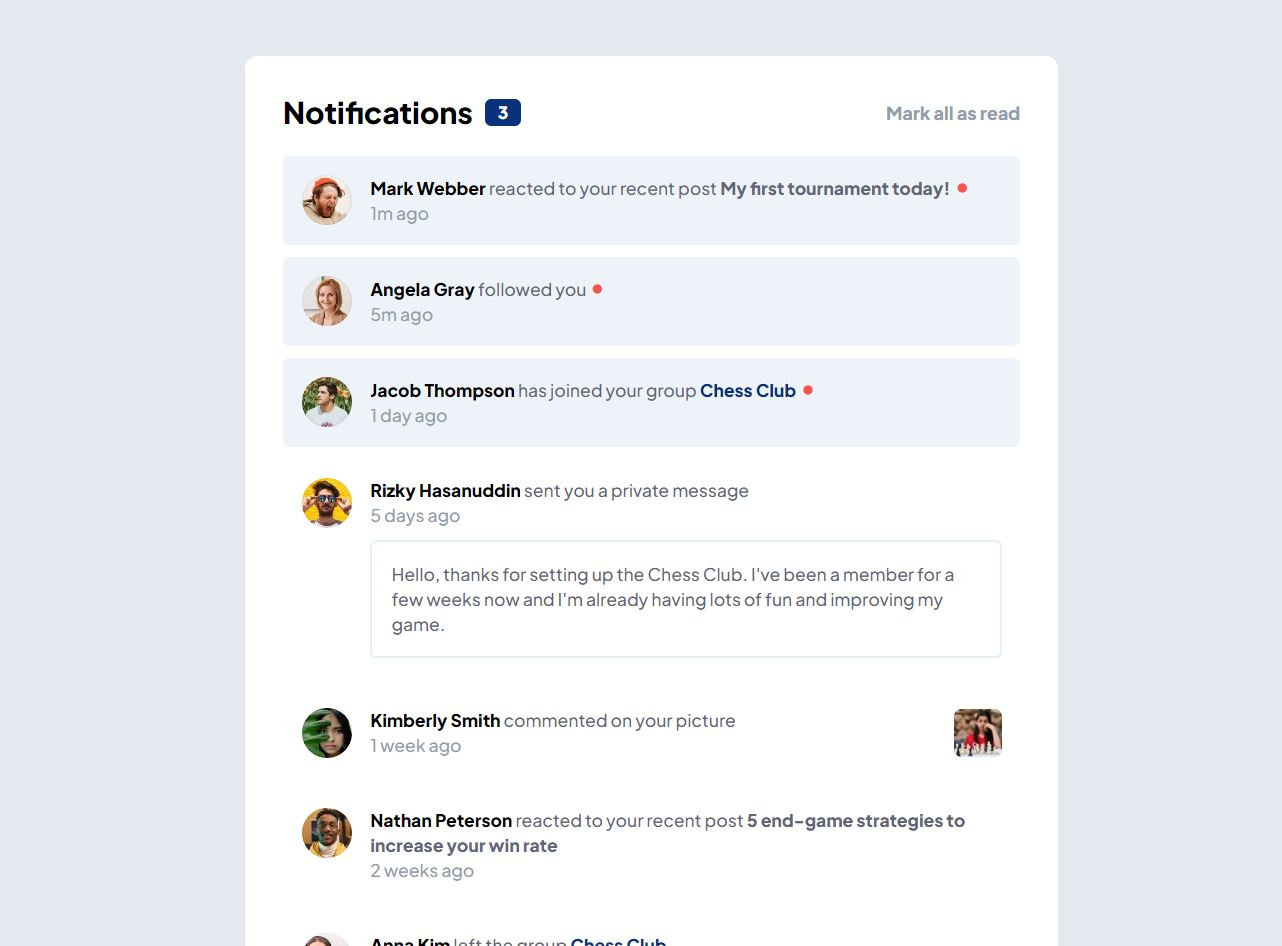
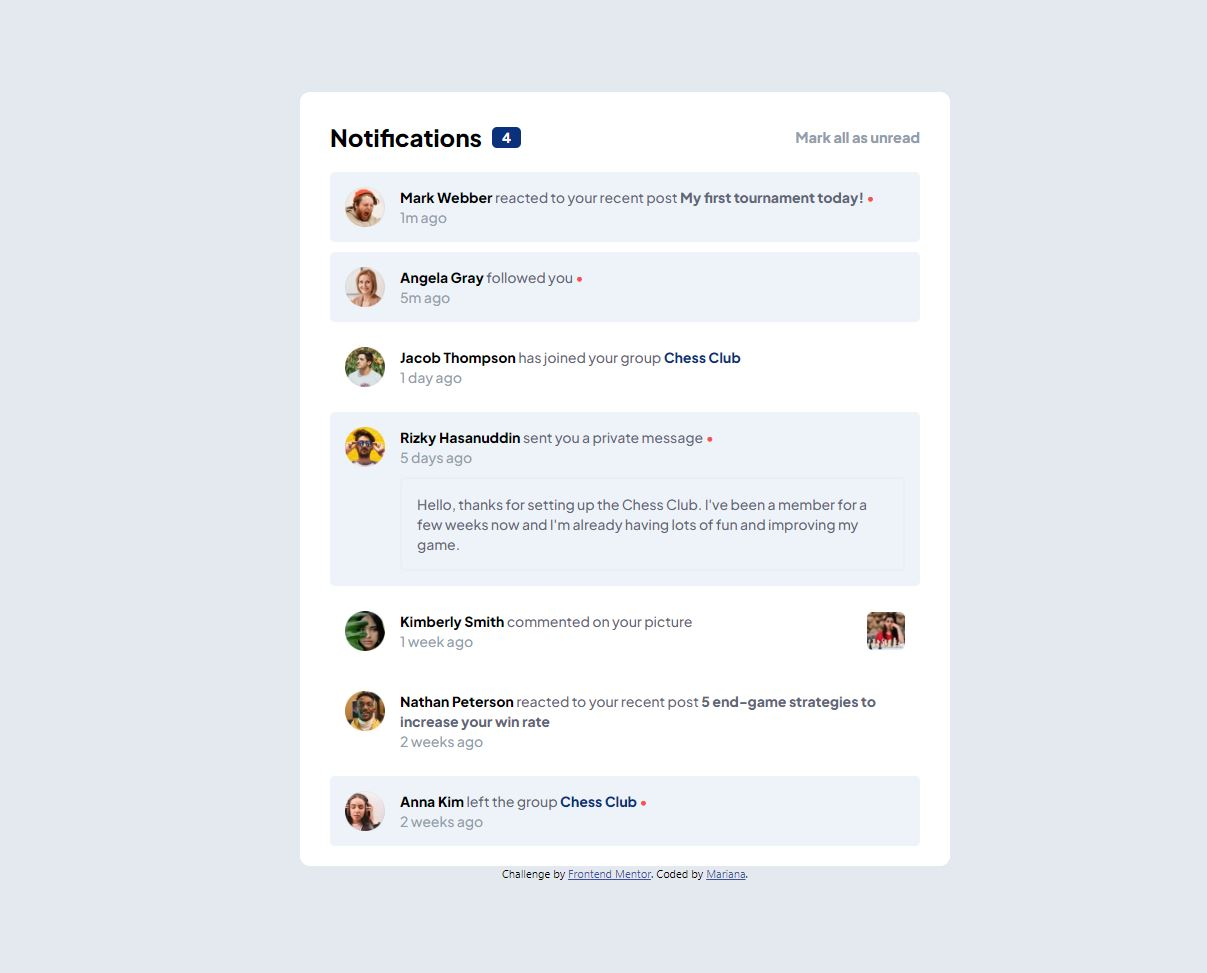
challenge completed

Changed region(s): [[0.1839, 0.0613, 0.8277, 1.0]]

diff --git a/src/App.js b/src/App.js
@@ -1,14 +1,56 @@
+import { useState } from 'react';
 import './App.css';
 import Header from './components/Header';
 import Card from './components/Card';
 
 function App() {
+
+    const [countUnreadMessages, setCountUnreadMessages] = useState(0);
+    const handleClickUnreadMessage = event => {
+        event.currentTarget.classList.toggle('isUnread');
+        if (event.currentTarget.classList.value.includes('isUnread')) {
+            setCountUnreadMessages(prevCountUnreadMessages => prevCountUnreadMessages + 1)            
+        } else {
+            setCountUnreadMessages(prevCountUnreadMessages => prevCountUnreadMessages - 1)
+        }
+    };
+
+    const allUnread = () => {
+        if (markAllUnreadMessages == "card-container isUnread") {
+            setCountUnreadMessages(prevCountUnreadMessages => prevCountUnreadMessages = 0);            
+        } else {
+            setCountUnreadMessages(prevCountUnreadMessages => prevCountUnreadMessages = 7);
+        }
+    }
+
+
+    const [markAllUnreadMessages, setMarkAllUnreadMessages] = useState("card-container");
+    const unreadAllMessages = () => {
+        setMarkAllUnreadMessages(prevmarkAllUnreadMessages => prevmarkAllUnreadMessages == "card-container" ? prevmarkAllUnreadMessages = "card-container isUnread" : "card-container");
+    }    
+
+    const [markAllUnread, setMarkAllUnread] = useState("Mark all as unread");
+    const handleClickMarkAll = () => {
+        setMarkAllUnread(prevMarkAllUnread => prevMarkAllUnread == "Mark all as unread" ? prevMarkAllUnread = "Mark all as read" : "Mark all as unread");
+        unreadAllMessages();
+        allUnread();
+    }
+
     return (
-        <section className="container">
-            <Header />
-            <Card />   
+        <section className="flex-container">
+            <Header
+                totalUnreadMessages={countUnreadMessages}
+                handleClick={handleClickMarkAll}
+                textMarkAll={markAllUnread}
+            />
+            <Card
+                markUnreadMessage={handleClickUnreadMessage}
+                className={markAllUnreadMessages}
+            />
+             
         </section>
     );
 }
 
 export default App;
+

diff --git a/src/App.css b/src/App.css
@@ -18,10 +18,6 @@
     padding: 0;
 }
 
-html {
-    font-size: 100%;
-}
-
 body {
     background-color: var(--bg-body);
     width: 100vw;
@@ -30,13 +26,12 @@ body {
     flex-direction: column;
     align-items: center;
     justify-content: center;
-
 }
 
-.container {
+.flex-container {
     background-color: var(--white);
     border-radius: 10px;
-    padding: 10px 30px 0 30px;
+    padding: 10px 30px;
     max-width: 650px;
     font-family: 'Plus Jakarta Sans', sans-serif;
 }
@@ -44,8 +39,12 @@ body {
 .attribution { font-size: 11px; text-align: center; }
 .attribution a { color: hsl(228, 45%, 44%); }
 
-@media screen and (max-width: 600px) {
-    .container {
+@media screen and (max-width: 768px) {
+    body {
+        height: 100%;
+    }
+
+    .flex-container {
         margin: 0;
         border-radius: 0;
         padding: 10px 20px;

diff --git a/src/components/Card/index.js b/src/components/Card/index.js
@@ -1,11 +1,16 @@
 import { notifications } from "../Notifications/dataNotifications";
 import './style.css';
 
-function Card() {
+function Card(props) {
+
     return (
         <>
             {notifications.map(notification => (
-                <div className="card-container" key={notification.name}>
+                <div
+                    className={`${props.className}`}
+                    key={notification.name}
+                    onClick={props.markUnreadMessage}
+                >
                     <img src={notification.profileImg} />
                     <div className="card-text">
                         <p><strong>{notification.name}</strong> {notification.action}<b> {notification.object}</b></p>

diff --git a/src/components/Card/style.css b/src/components/Card/style.css
@@ -30,16 +30,14 @@ span {
     color: var(--grayish-blue);
 }
 
-.card-container:nth-child(2), .card-container:nth-child(3), .card-container:nth-child(4) {
+.isUnread {
     background-color: var(--bg-card);
     border-radius: 5px;
 }
 
-.card-container:nth-child(2) p::after, .card-container:nth-child(3) p::after, .card-container:nth-child(4) p::after {
+.isUnread p::after {
     content: ' \2022';
     color: var(--red);
-    font-size: 150%;
-    line-height: 16px;
 }
 
 .card-container:nth-child(4) b, .card-container:nth-child(8) b {

diff --git a/src/components/Header/index.js b/src/components/Header/index.js
@@ -1,11 +1,12 @@
 import './style.css';
 
-function Header() {
+function Header(props) {
+    
     return (
         <header className="header">
             <h1>Notifications</h1>
-            <p>3</p>
-            <button type="button">Mark all as read</button>
+            <p>{props.totalUnreadMessages}</p>
+            <button onClick={props.handleClick} type="button">{props.textMarkAll}</button>
         </header>
     );
 }
